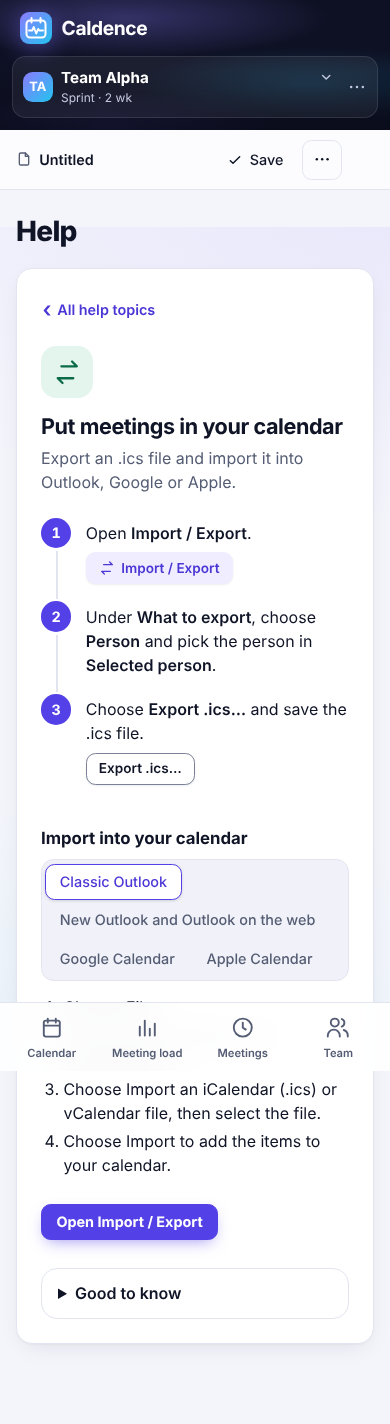
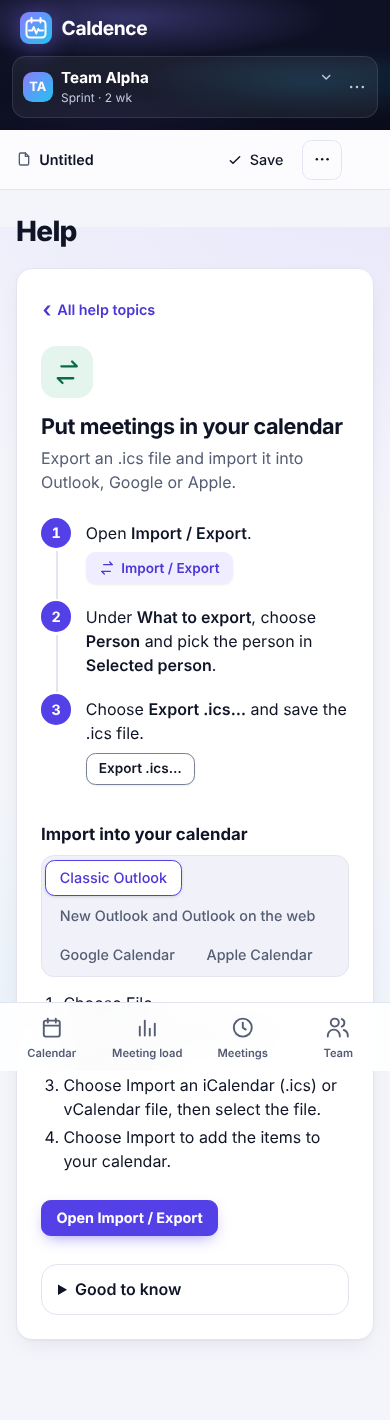
Help: review fixes (formula, subheadings, wording, modified clicks)

diff --git a/src/ui/help/Paras.svelte b/src/ui/help/Paras.svelte
@@ -1,18 +1,26 @@
 <script lang="ts">
+  import { translate as t } from '../../i18n';
   import { shortcut } from './label';
   import { PARAGRAPHS } from './paragraphs';
   import Rich from './Rich.svelte';
 
-  /** Paragraphs of the help by i18n key, with the labels they name (see PARAGRAPHS). */
+  /**
+   * Paragraphs of the help by i18n key, with the labels they name (see PARAGRAPHS). A view name
+   * (`view.…`) or a `….title` key is a subheading.
+   */
   let { keys }: { keys: string[] } = $props();
 </script>
 
 {#each keys as key (key)}
-  <p>
-    <Rich
-      {key}
-      labels={PARAGRAPHS[key]}
-      keys={{ undo: $shortcut('undo'), esc: $shortcut('present') }}
-    />
-  </p>
+  {#if key.startsWith('view.') || key.endsWith('.title')}
+    <h4>{$t(key)}</h4>
+  {:else}
+    <p>
+      <Rich
+        {key}
+        labels={PARAGRAPHS[key]}
+        keys={{ undo: $shortcut('undo'), esc: $shortcut('present') }}
+      />
+    </p>
+  {/if}
 {/each}

diff --git a/src/ui/help/LoadFormula.svelte b/src/ui/help/LoadFormula.svelte
@@ -19,7 +19,9 @@
       <span class="op">×</span>
       <span class="term"><b>1</b><small>{$t('help.formula.share')}</small></span>
       <span class="op">×</span>
-      <span class="term"><b>+50 %</b><small>{$t('help.formula.prep')}</small></span>
+      <span class="term"
+        ><b>{formatNumber($locale, 1.5, 1)}</b><small>{$t('help.formula.prep')}</small></span
+      >
       <span class="op">=</span>
       <span class="term result"
         ><b>{$t('cal.hours', { hours: formatNumber($locale, 1.5, 1) })}</b><small

diff --git a/src/ui/help/HelpTopic.svelte b/src/ui/help/HelpTopic.svelte
@@ -43,6 +43,7 @@
     team: ['help.views.team', 'help.views.split', 'help.templates.people'],
     settings: [
       'help.views.settings',
+      'help.region.title',
       'help.region.intro',
       'help.region.import',
       'help.region.remove',
@@ -53,6 +54,7 @@
       'help.views.areas',
       'help.views.phone',
       'help.views.filters',
+      'view.calendar',
       'help.views.calendar',
       'help.views.calendar.legend',
       'help.views.day',

diff --git a/src/ui/views/HelpView.svelte b/src/ui/views/HelpView.svelte
@@ -27,6 +27,7 @@
 
   /** Links between topics are `#help-<id>`: open the topic instead of jumping. */
   function onclick(event: MouseEvent) {
+    if (event.button !== 0 || event.metaKey || event.ctrlKey || event.shiftKey) return;
     const link = (event.target as Element).closest?.('a[href^="#help-"]');
     if (!link) return;
     const id = link.getAttribute('href')!.slice('#help-'.length) as TopicId;

diff --git a/src/ui/help/LoadCalc.svelte b/src/ui/help/LoadCalc.svelte
@@ -1,5 +1,4 @@
 <script lang="ts">
-  import { translate as t } from '../../i18n';
   import Rich from './Rich.svelte';
   import { topicLink } from './topics';
 
@@ -56,4 +55,3 @@
     <li><Rich key={'help.calc.' + part} {labels} /></li>
   {/each}
 </ul>
-<p>{$t('help.calc.example')}</p>

diff --git a/src/ui/help/CalendarApps.svelte b/src/ui/help/CalendarApps.svelte
@@ -29,11 +29,7 @@
 </section>
 
 <style>
-  .apps {
-    margin-top: 1.5rem;
-  }
   h4 {
-    margin: 0 0 0.6rem;
     font-size: 1.05rem;
   }
   .segmented {
